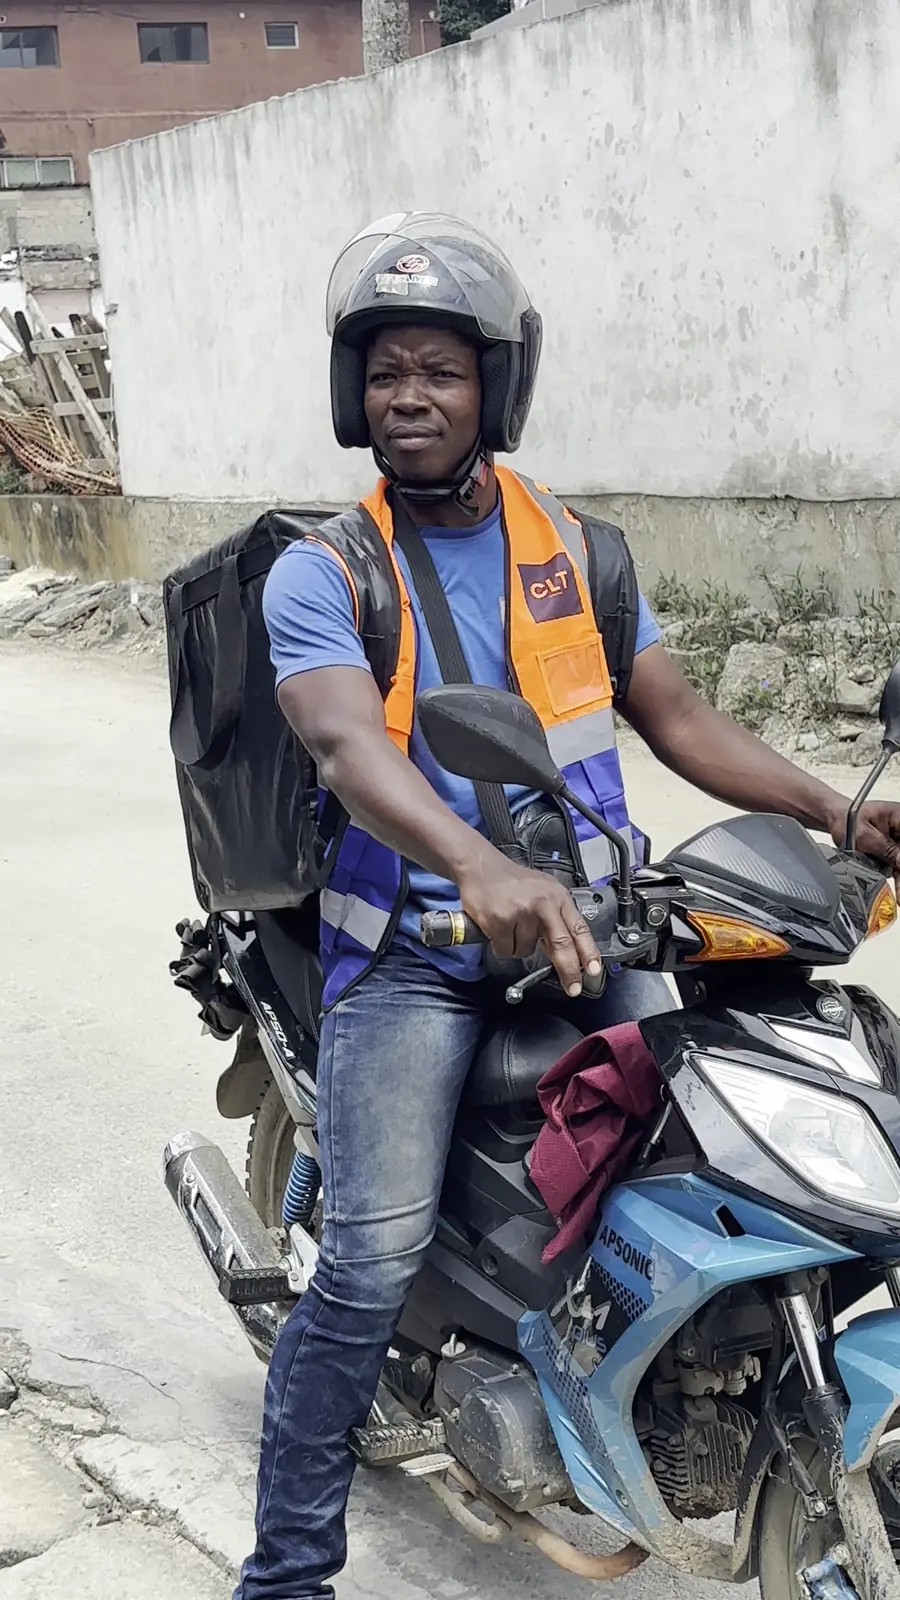
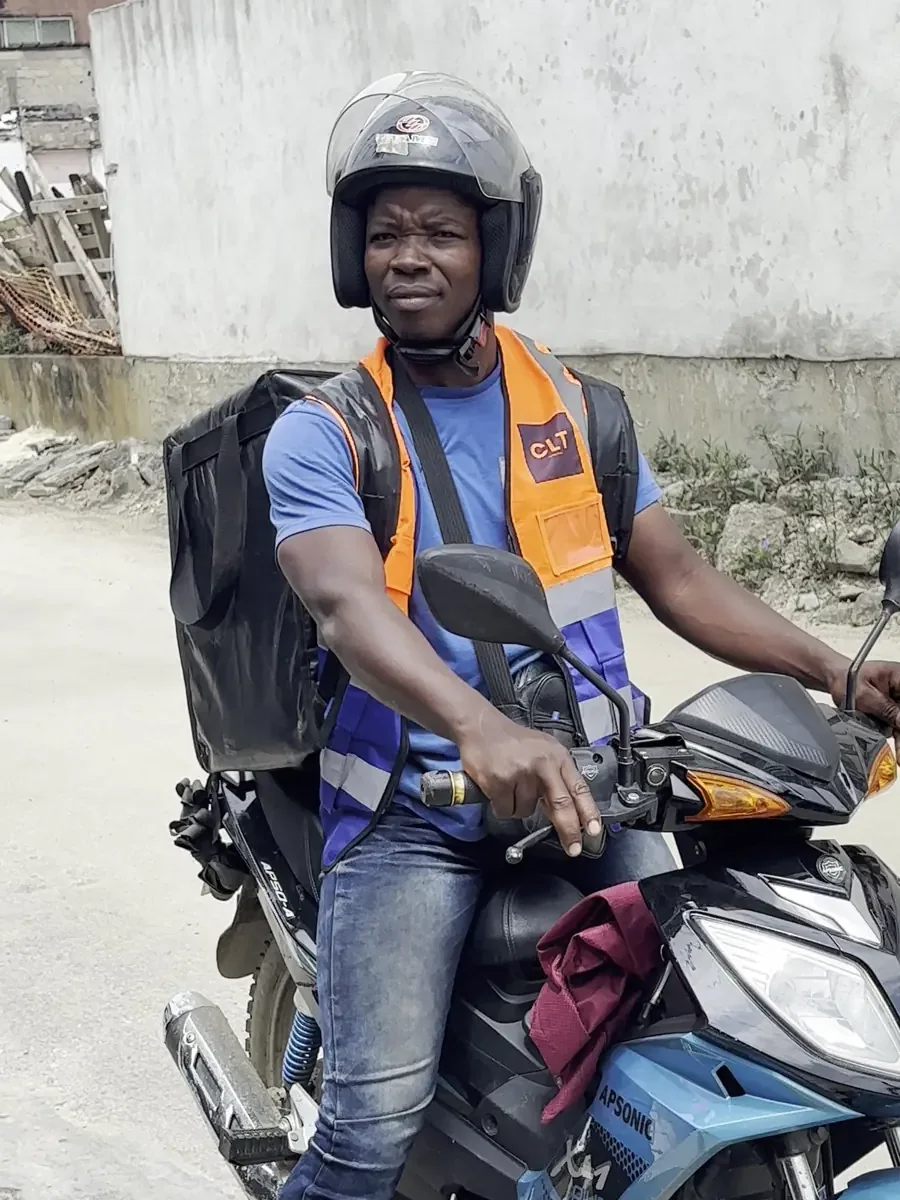
Site public : les cinq photos du héros au même format (3/4)
Celtis : « je propose que ça garde la même largeur qu'au départ […] mais il
faudrait que si les images sont trop grosses ou trop petites, on les change ».

Il avait raison depuis le début, et mes deux correctifs précédents visaient à
côté. La vraie cause n'était pas la mise en page mais les photos elles-mêmes :

  hero-livreur.jpg                 3/4    (0,750) → 23% de la largeur
  hero-livreur-2.webp              3/4    (0,750) → 23%
  vie/suivi-des-colis-au-bureau    3/4    (0,750) → 23%
  hero-livreur-moto.webp           9/16   (0,562) → 17%  ← plus petite
  hero-livreur-route.webp          9/16   (0,562) → 17%  ← plus petite

Avec object-fit:contain, la largeur affichée dépend du format de la photo :
deux photos prises au format téléphone (9/16) s'affichaient donc visiblement
plus petites que les trois autres. C'est aussi ce qui donnait l'impression de
« deux images côte à côte » sur les captures de Celtis : pendant un fondu, la
photo étroite se superposait à la large, en laissant dépasser une bande.

Ce commit :
  • annule les deux correctifs de mise en page (revert de 6cdc780 et 5e2357e) :
    le bandeau retrouve exactement sa largeur et son dégradé d'origine ;
  • recadre les deux photos 9/16 en 3/4 (900×1200), sujet gardé au centre —
    le casque, le gilet CLT et la moto restent entiers dans les deux.

Les cinq photos s'affichent maintenant à la largeur identique (444 px sur un
écran de 1920, soit la même bande pour toutes), vérifié photo par photo dans
[…]

diff --git a/index.html b/index.html
@@ -238,20 +238,10 @@
     .hero-text-col{padding:64px 0 52px 0;}
     .hero-text h1, .hero-text p.lead, .hero-text .pill{margin-left:0; margin-right:0;}
     .hero-actions, .hero-audience{justify-content:flex-start;}
-    /* La photo n'occupe plus toute la largeur du héros mais une bande à droite (44%).
-       Essai 1 (contain) : la photo, plus haute que large, apparaissait toute petite
-       dans un bandeau très large — beaucoup de vide autour. Essai 2 (cover pleine
-       largeur) : pour couvrir un bandeau aussi large avec une photo portrait, il
-       fallait zoomer énormément — un tout petit bout de la photo, en très gros plan.
-       Celtis a signalé les deux, à la suite. Une bande plus étroite règle les deux :
-       la photo la remplit complètement (cover) sans besoin d'un cadrage aussi serré
-       (17/09/2026). Sur mobile, la photo garde toute la largeur : le bandeau y est
-       plus haut que large, donc cover pleine largeur y donne déjà un cadrage naturel. */
-    .hero-photo-col{ left:auto; width:44%; }
     .hero-photo-col::after{
-      background:linear-gradient(90deg, rgba(9,26,48,0.95) 0%, rgba(9,26,48,0.25) 45%, rgba(9,26,48,0) 100%);
+      background:linear-gradient(90deg, rgba(9,26,48,0.9) 0%, rgba(9,26,48,0.62) 48%, rgba(9,26,48,0.28) 100%);
     }
-    .hero-photo-col img{object-fit:cover; object-position:center;}
+    .hero-photo-col img{object-fit:contain; object-position:right center;}
     .hero-text{margin:0;}  /* le texte à gauche, la photo à droite (4.1) */
     #heroPill{margin-bottom:14px;}
     .hero h1{margin-bottom:14px;}
